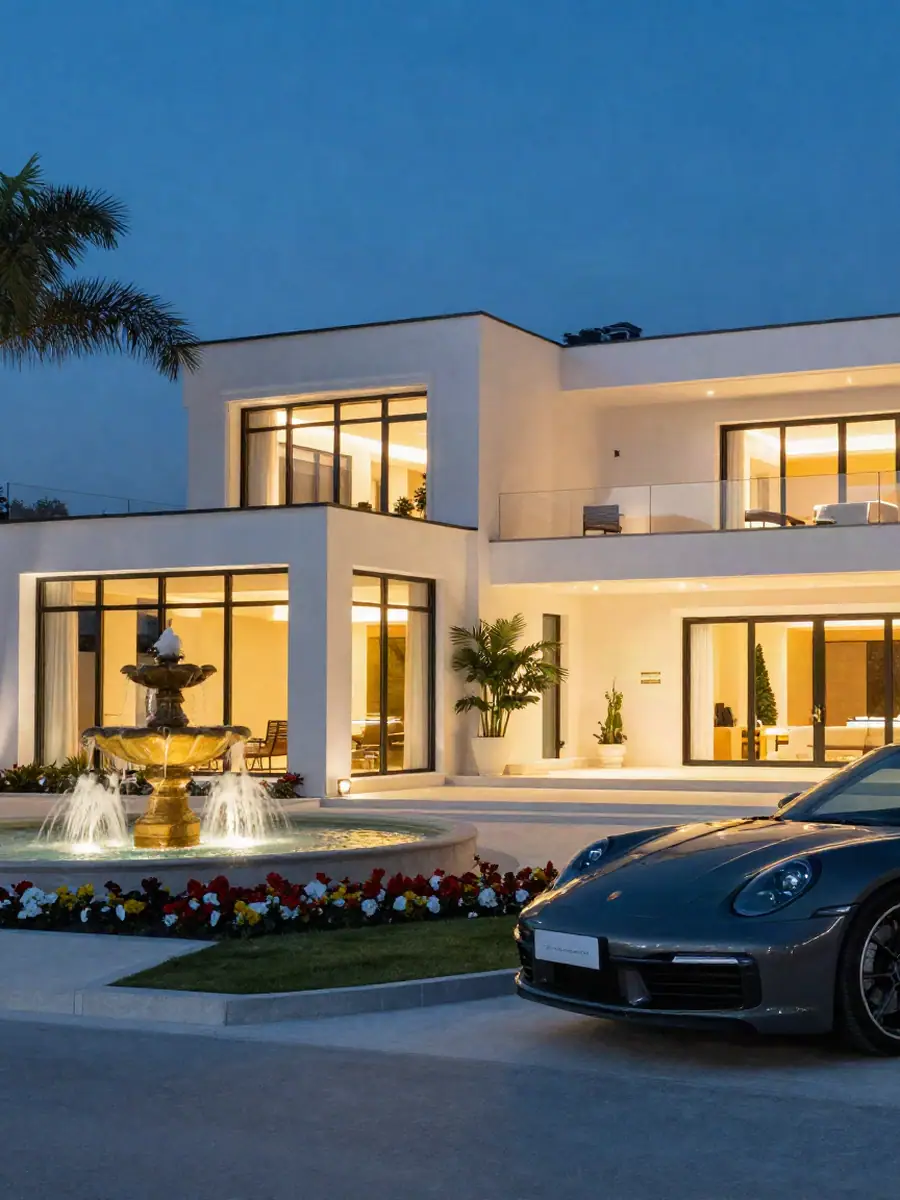
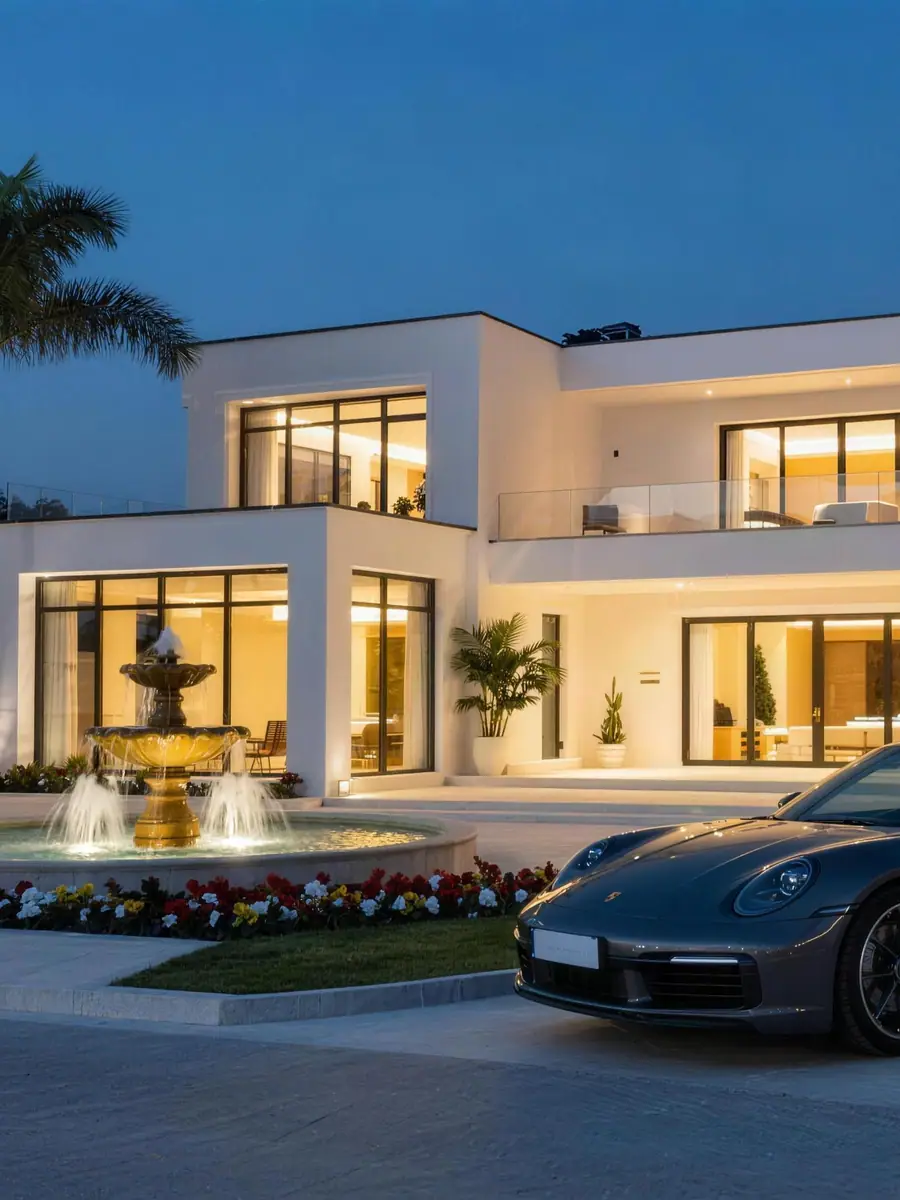
Sharper hero, full image on phones and tablets, lightbox stays in category
- Hero uses the 4K upscaled villa image with five responsive sizes
- Narrow and portrait screens show the whole hero image above the text
- A photo opened from the home page browses its own category instead of jumping between categories
- Recommendation toasts start only after real scrolling

diff --git a/tools/test_site.js b/tools/test_site.js
@@ -190,17 +190,17 @@ const sleep = ms => new Promise(r => setTimeout(r, ms));
   await p.evaluate(() => document.querySelectorAll(".zoom")[2].focus()); await p.keyboard.press("Enter"); await sleep(700);
   const lbState = () => p.evaluate(() => { const lb = document.getElementById("lb"), im = document.getElementById("lb-img"), r = im.getBoundingClientRect(); return { open: lb.open, src: im.getAttribute("src"), ok: im.complete && im.naturalWidth > 0, alt: im.alt, cap: document.getElementById("lb-cap").textContent, n: document.getElementById("lb-n").textContent, inside: lb.contains(document.activeElement), lock: document.documentElement.classList.contains("lb-open"), fits: r.top >= 0 && r.left >= 0 && r.bottom <= innerHeight + 1 && r.right <= innerWidth + 1 && r.width > 200, op: getComputedStyle(lb).opacity, back: document.activeElement === document.querySelectorAll(".zoom")[2] }; });
   s = await lbState();
-  check("הגדלה: Enter על תמונה פותח אותה בגדול, עם כיתוב, מונה ומיקוד בתוך החלון", s.open && /vitrines-001\.webp$/.test(s.src) && s.ok && s.alt === "ויטרינות 1" && s.cap === "ויטרינות" && s.n === "3 / 26" && s.inside && s.lock && s.fits && s.op === "1", s);
+  check("הגדלה מעמוד הבית: נפתחת בתוך התחום שלה (ויטרינות), עם כיתוב, מונה של התחום ומיקוד בתוך החלון", s.open && /vitrines-001\.webp$/.test(s.src) && s.ok && s.alt === "ויטרינות 1" && s.cap === "ויטרינות" && s.n === "1 / 38" && s.inside && s.lock && s.fits && s.op === "1", s);
   await axe(p, "עם תמונה מוגדלת");
   await p.screenshot({ path: path.join(SHOTS, "site_lb_desk.png") });
   await p.keyboard.press("ArrowLeft"); await sleep(500); s = await lbState();
-  check("הגדלה: חץ שמאלה בעברית עובר לתמונה הבאה", s.n === "4 / 26" && /vitrines-002\.webp$/.test(s.src) && s.ok, s);
+  check("הגדלה: חץ שמאלה בעברית עובר לתמונה הבאה", s.n === "2 / 38" && /vitrines-002\.webp$/.test(s.src) && s.ok, s);
   await p.keyboard.press("ArrowRight"); await p.keyboard.press("ArrowRight"); await sleep(500); s = await lbState();
-  check("הגדלה: חץ ימינה חוזר אחורה", s.n === "2 / 26" && s.ok, s);
+  check("הגדלה: חץ ימינה חוזר אחורה", s.n === "38 / 38" && s.ok, s);
   await p.click(".lb-prev"); await sleep(400); s = await lbState();
-  check("הגדלה: כפתור הקודם, ומהראשונה ממשיכים לאחרונה", s.n === "1 / 26", s);
+  check("הגדלה: כפתור הקודם, ומהראשונה ממשיכים לאחרונה", s.n === "37 / 38", s);
   await p.click(".lb-prev"); await sleep(400); s = await lbState();
-  check("הגדלה: מעבר מעגלי לתמונה האחרונה", s.n === "26 / 26" && s.ok, s);
+  check("הגדלה: מעבר מעגלי לתמונה האחרונה", s.n === "36 / 38" && s.ok, s);
   await p.keyboard.press("Escape"); await sleep(500); s = await lbState();
   check("הגדלה: Escape סוגר, משחרר את הגלילה ומחזיר את המיקוד לתמונה", !s.open && !s.lock && s.back, s);
   await p.evaluate(() => document.querySelectorAll(".zoom")[5].click()); await sleep(500);
@@ -217,12 +217,12 @@ const sleep = ms => new Promise(r => setTimeout(r, ms));
   check("הגדלה fr: התוויות בצרפתית", /^Agrandir l'image: Fenêtres/.test(s.z) && s.nx === "Image suivante" && s.he === 0, s);
   await p.evaluate(() => { const z = document.querySelectorAll(".zoom")[6]; z.scrollIntoView({ behavior: "instant", block: "center" }); z.click(); }); await sleep(700);
   s = await p.evaluate(() => { const im = document.getElementById("lb-img").getBoundingClientRect(); const bs = [...document.querySelectorAll(".lb-b")].map(b => b.getBoundingClientRect()); return { fits: im.top >= 0 && im.bottom <= innerHeight + 1 && im.left >= 0 && im.right <= innerWidth + 1 && im.width > 250, btn: bs.every(r => r.width >= 44 && r.height >= 44 && r.left >= 0 && r.right <= innerWidth), over: document.documentElement.scrollWidth > innerWidth + 1, n: document.getElementById("lb-n").textContent }; });
-  check("הגדלה בטלפון: התמונה והכפתורים בתוך המסך, כפתורים 44 פיקסלים לפחות", s.fits && s.btn && !s.over && s.n === "7 / 26", s);
+  check("הגדלה בטלפון: התמונה והכפתורים בתוך המסך, כפתורים 44 פיקסלים לפחות", s.fits && s.btn && !s.over && s.n === "1 / 50", s);
   await p.screenshot({ path: path.join(SHOTS, "site_lb_mob.png") });
   // החלקה באצבע: בכיוון שמאל-לימין (ltr) החלקה שמאלה = הבא
   await p.evaluate(() => { const lb = document.getElementById("lb"); const ev = (t, x) => { const e = new Event(t, { bubbles: true }); e.touches = t === "touchstart" ? [{ clientX: x }] : []; e.changedTouches = [{ clientX: x }]; lb.dispatchEvent(e); }; ev("touchstart", 300); ev("touchend", 120); }); await sleep(400);
   s = await p.evaluate(() => document.getElementById("lb-n").textContent);
-  check("הגדלה בטלפון: החלקה שמאלה עוברת לתמונה הבאה", s === "8 / 26", s);
+  check("הגדלה בטלפון: החלקה שמאלה עוברת לתמונה הבאה", s === "2 / 50", s);
   await p.browserContext().close();
   // הפחתת תנועה: אין ספירה ואין הזזה, התמונה עדיין נפתחת
   p = await open("index.html", 1440, 900, { reduce: true }); await scrollAll(p);

diff --git a/site.js b/site.js
@@ -250,9 +250,12 @@
     box.addEventListener("mouseleave", function () { if (box.classList.contains("on") && !off) { clearTimeout(timer); timer = setTimeout(function () { hide(true); }, 2500); } });
     /* ההודעה הראשונה רק אחרי שהגולש התחיל לגלול */
     var sentinel = document.getElementById("services");
-    if (sentinel && "IntersectionObserver" in window) {
-      var po = new IntersectionObserver(function (es) { if (!started && es[0].isIntersecting) { started = true; po.disconnect(); timer = setTimeout(show, 1500); } }, { threshold: 0.05 });
-      po.observe(sentinel);
+    if (sentinel) {
+      var onScroll = function () {
+        if (started || (window.pageYOffset || d.scrollTop) < 160) return;
+        started = true; window.removeEventListener("scroll", onScroll); timer = setTimeout(show, 1500);
+      };
+      window.addEventListener("scroll", onScroll, { passive: true });
     }
   })();
 
@@ -345,8 +348,15 @@
     im.addEventListener("load", function () { im.classList.remove("sw"); });
     im.addEventListener("error", function () { im.classList.remove("sw"); });
     Array.prototype.forEach.call(all, function (z) { z.addEventListener("click", function () {
-      var g = z.closest("[data-g]"); zs = g ? g.querySelectorAll(".zoom") : all;
-      go(Array.prototype.indexOf.call(zs, z)); d.classList.add("lb-open"); lb.showModal();
+      var g = z.closest("[data-g]"), i = -1; zs = g ? g.querySelectorAll(".zoom") : all;
+      /* תמונה מעמוד הבית: מדפדפים בכל התמונות של אותו תחום, לא בין התחומים */
+      if (g && g.getAttribute("data-g") === "home") {
+        var key = (z.firstElementChild.getAttribute("data-i18n-alt") || "").replace("g.", ""), full = z.firstElementChild.getAttribute("data-full");
+        var sec = key ? document.getElementById("g-" + key) : null, cat = z.closest(".cat");
+        zs = sec ? sec.querySelectorAll(".zoom") : (cat ? cat.querySelectorAll(".zoom") : zs);
+        Array.prototype.forEach.call(zs, function (o, k) { if (i < 0 && o.firstElementChild.getAttribute("data-full") === full) i = k; });
+      }
+      go(i >= 0 ? i : Array.prototype.indexOf.call(zs, z)); d.classList.add("lb-open"); lb.showModal();
     }); });
     lb.addEventListener("close", function () { d.classList.remove("lb-open"); });
     lb.addEventListener("click", function (e) { if (e.target === lb) lb.close(); });

diff --git a/index.html b/index.html
@@ -11,12 +11,12 @@
 <meta property="og:title" content="אלום אלבז | חלונות, דלתות וויטרינות אלומיניום ברמת יוקרה">
 <meta property="og:description" content="אלום אלבז בע״מ: תכנון, ייצור והתקנה של חלונות, דלתות אלומיניום, ויטרינות, סגירות חורף ותריסים בכל הארץ. 12 שנות ניסיון ושירות VIP.">
 <meta property="og:type" content="website">
-<meta property="og:image" content="assets/hero-2048.jpg">
+<meta property="og:image" content="assets/hero-1920.jpg">
 <link rel="icon" href="favicon.png" type="image/png">
 <link rel="apple-touch-icon" href="favicon.png">
 <link rel="preload" href="fonts/plex-hebrew-600.woff2" as="font" type="font/woff2" crossorigin>
 <link rel="stylesheet" href="fonts/fonts.css">
-<link rel="stylesheet" href="styles.css?v=8f545885">
+<link rel="stylesheet" href="styles.css?v=63087baa">
 <script src="boot.js?v=be9cd548"></script>
 </head>
 <body>
@@ -50,7 +50,7 @@
 
 <main id="main">
 <div class="hero" id="top">
-  <div class="ph"><img src="assets/hero-1024.jpg" srcset="assets/hero-1024.jpg 1024w, assets/hero-2048.jpg 2048w" sizes="100vw" width="2048" height="1152" alt="" fetchpriority="high"></div>
+  <div class="ph"><img src="assets/hero-800.jpg" srcset="assets/hero-800.jpg 800w, assets/hero-1280.jpg 1280w, assets/hero-1920.jpg 1920w, assets/hero-2880.jpg 2880w, assets/hero-3840.jpg 3840w" sizes="100vw" width="3840" height="2160" alt="" fetchpriority="high"></div>
   <div class="wrap in">
     <h1 data-i18n-html="hero.h1">אלומיניום <em>ברמת גימור</em> של בית יוקרה.</h1>
     <p data-i18n="hero.p">חלונות, דלתות, ויטרינות וסגירות חורף. תכנון, ייצור והתקנה בכל הארץ, עם ליווי אישי עד אחרי המסירה.</p>
@@ -629,6 +629,6 @@
     <button type="button" data-opt="close"><span data-i18n="acc.close">סגירה</span></button>
   </div>
 </div>
-<script src="site.js?v=fdab5700" defer></script>
+<script src="site.js?v=3e58d373" defer></script>
 </body>
 </html>

diff --git a/works.html b/works.html
@@ -11,12 +11,12 @@
 <meta property="og:title" content="העבודות שלנו | אלום אלבז">
 <meta property="og:description" content="כל תמונות העבודות של אלום אלבז בע״מ לפי תחום: חלונות, ויטרינות, פרופילים, דלתות, מקלחונים, פרגולות ועוד.">
 <meta property="og:type" content="website">
-<meta property="og:image" content="assets/hero-2048.jpg">
+<meta property="og:image" content="assets/hero-1920.jpg">
 <link rel="icon" href="favicon.png" type="image/png">
 <link rel="apple-touch-icon" href="favicon.png">
 <link rel="preload" href="fonts/plex-hebrew-600.woff2" as="font" type="font/woff2" crossorigin>
 <link rel="stylesheet" href="fonts/fonts.css">
-<link rel="stylesheet" href="styles.css?v=8f545885">
+<link rel="stylesheet" href="styles.css?v=63087baa">
 <script src="boot.js?v=be9cd548"></script>
 </head>
 <body>
@@ -543,6 +543,6 @@
     <button type="button" data-opt="close"><span data-i18n="acc.close">סגירה</span></button>
   </div>
 </div>
-<script src="site.js?v=fdab5700" defer></script>
+<script src="site.js?v=3e58d373" defer></script>
 </body>
 </html>

diff --git a/accessibility.html b/accessibility.html
@@ -11,12 +11,12 @@
 <meta property="og:title" content="הצהרת נגישות | אלום אלבז">
 <meta property="og:description" content="הצהרת הנגישות של אתר אלום אלבז בע״מ.">
 <meta property="og:type" content="website">
-<meta property="og:image" content="assets/hero-2048.jpg">
+<meta property="og:image" content="assets/hero-1920.jpg">
 <link rel="icon" href="favicon.png" type="image/png">
 <link rel="apple-touch-icon" href="favicon.png">
 <link rel="preload" href="fonts/plex-hebrew-600.woff2" as="font" type="font/woff2" crossorigin>
 <link rel="stylesheet" href="fonts/fonts.css">
-<link rel="stylesheet" href="styles.css?v=8f545885">
+<link rel="stylesheet" href="styles.css?v=63087baa">
 <script src="boot.js?v=be9cd548"></script>
 </head>
 <body>
@@ -83,6 +83,6 @@
     <button type="button" data-opt="close"><span data-i18n="acc.close">סגירה</span></button>
   </div>
 </div>
-<script src="site.js?v=fdab5700" defer></script>
+<script src="site.js?v=3e58d373" defer></script>
 </body>
 </html>

diff --git a/styles.css b/styles.css
@@ -280,6 +280,15 @@ html.ul a{text-decoration:underline!important;text-underline-offset:4px;outline:
   footer{padding-block:28px}
   .hero .in{padding-bottom:40px}
 }
+/* מסך צר או מסך לאורך (טלפון, טאבלט): כל תמונת הפתיחה נראית, כולל הרכב, והטקסט מתחתיה */
+@media (max-width:859px),(max-aspect-ratio:1/1){
+  .hero{display:block;min-height:0;padding-top:80px}
+  .hero .ph{position:relative;inset:auto;aspect-ratio:16/9;max-height:62dvh;overflow:hidden}
+  .hero .ph::after,[dir="ltr"] .hero .ph::after{background:linear-gradient(to top,rgba(var(--scrim),1) 0%,rgba(var(--scrim),0) 22%)}
+  html[dir="ltr"] .hero .ph img{transform:none;animation-name:heroZoom}
+  .hero .in{padding-block:22px 56px}
+  .nav{background:var(--bg)}
+}
 @supports (animation-timeline:scroll()){
   @media (prefers-reduced-motion:no-preference) and (min-width:860px){
     [dir="ltr"] .hero .ph img{animation-name:heroZoomLtr}

diff --git a/tools/gen.py b/tools/gen.py
@@ -18,7 +18,7 @@ HEAD = '''<!DOCTYPE html>
 <meta property="og:title" content="{title}">
 <meta property="og:description" content="{desc}">
 <meta property="og:type" content="website">
-<meta property="og:image" content="assets/hero-2048.jpg">
+<meta property="og:image" content="assets/hero-1920.jpg">
 <link rel="icon" href="favicon.png" type="image/png">
 <link rel="apple-touch-icon" href="favicon.png">
 <link rel="preload" href="fonts/plex-hebrew-600.woff2" as="font" type="font/woff2" crossorigin>
@@ -93,10 +93,10 @@ MAN = json.load(open(os.path.join(ROOT, "tools", "photos.json")))
 
 
 def pic(n, eager=False, sizes="100vw", alt="", extra=""):
-    m = MAN[n]; big, small = m["s"]
+    m = MAN[n]; ss = sorted(m["s"])
     tail = ' fetchpriority="high"' if eager else ' loading="lazy" decoding="async"'
-    return ('<img src="assets/{n}-{sm}.jpg" srcset="assets/{n}-{sm}.jpg {sm}w, assets/{n}-{bg}.jpg {bg}w" '
-            'sizes="{s}" width="{w}" height="{h}" alt="{alt}"{x}{t}>').format(n=n, sm=small, bg=big, s=sizes, w=m["w"], h=m["h"], alt=alt, x=extra, t=tail)
+    return ('<img src="assets/{n}-{sm}.jpg" srcset="{set}" '
+            'sizes="{s}" width="{w}" height="{h}" alt="{alt}"{x}{t}>').format(n=n, sm=ss[0], set=", ".join("assets/%s-%d.jpg %dw" % (n, v, v) for v in ss), s=sizes, w=m["w"], h=m["h"], alt=alt, x=extra, t=tail)
 
 
 def li(items, cls="rv"):

diff --git a/tools/photos.py b/tools/photos.py
@@ -14,7 +14,7 @@ def files(d):
     return out
 # שם באתר: (תיקייה, מספר, מצב)  מצב: "full" = יחס מקורי, "45" = חיתוך 4:5 לגלריה
 PICK = {
-    "hero": (None, os.path.join(ROOT, "src-img", "works-bg.png"), "full"),  # מ-22/11: הווילה שנוצרה ב-AI ואושרה ע"י מתניה, גם רקע עמוד העבודות. הקודמת:  # תמונת הפתיחה: נשארת התמונה המקורית (בקשת מתניה 12/11), לא מתמונות העבודות
+    "hero": (None, os.path.join(ROOT, "src-img", "works-bg-4k.png"), "full"),  # מ-22/11: הווילה שנוצרה ב-AI ואושרה ע"י מתניה, גם רקע עמוד העבודות. הקודמת:  # תמונת הפתיחה: נשארת התמונה המקורית (בקשת מתניה 12/11), לא מתמונות העבודות
     "contact": ("פרגולות", 46, "full"),
     "windows": ("חלונות", 239, "full"), "doors": (None, os.path.join(SRC, "חלונות", "20250226_135327.jpg"), "full"),  # הדלת החומה, בחירת מתניה 22/11
      "vitrines": ("חלונות", 268, "full"),
